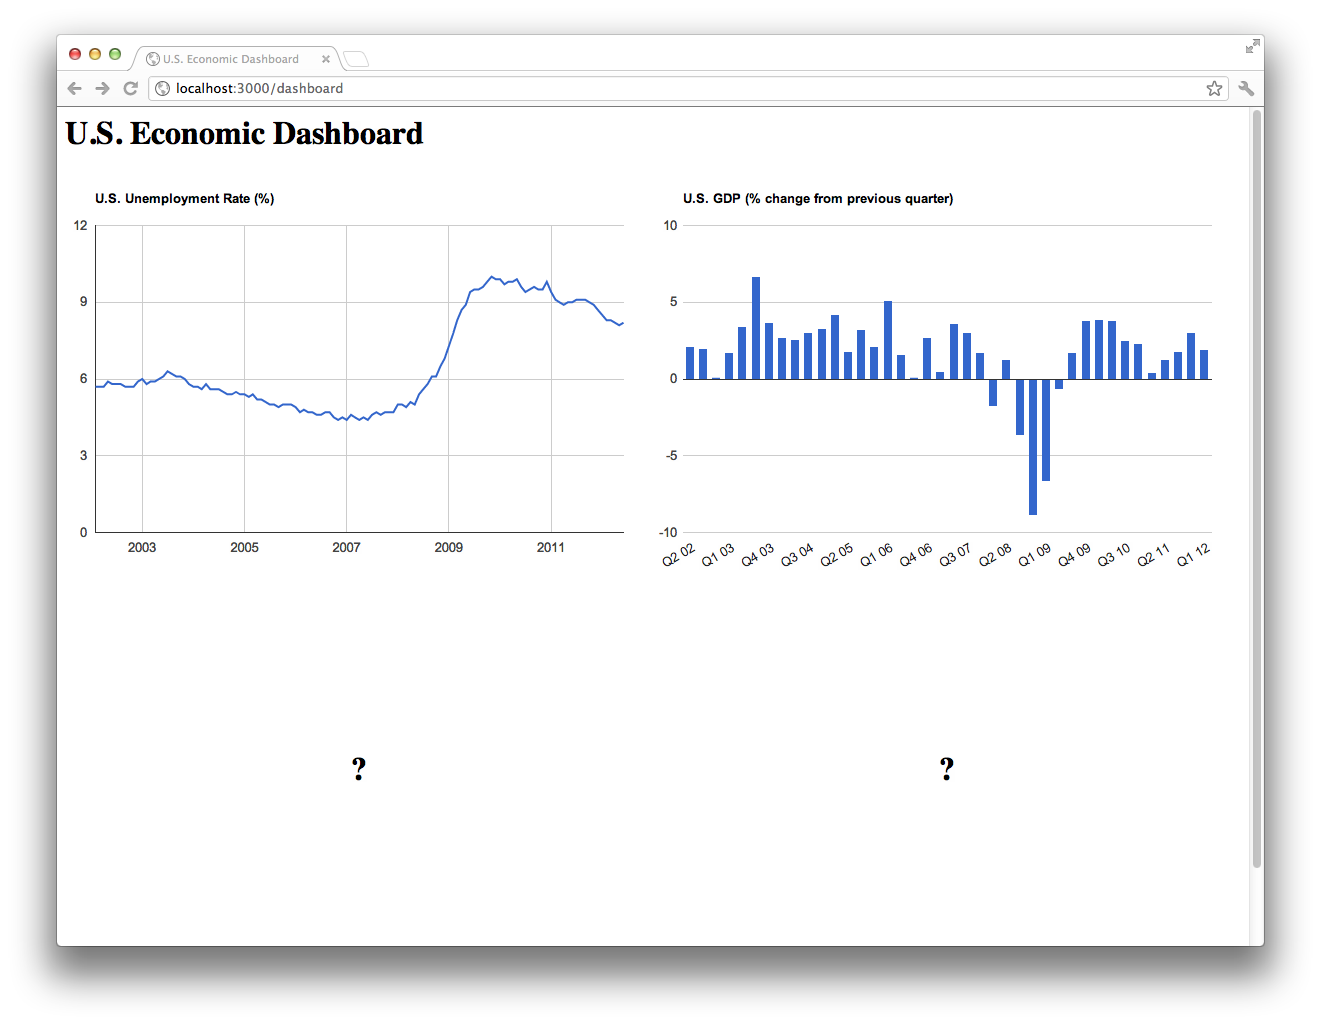
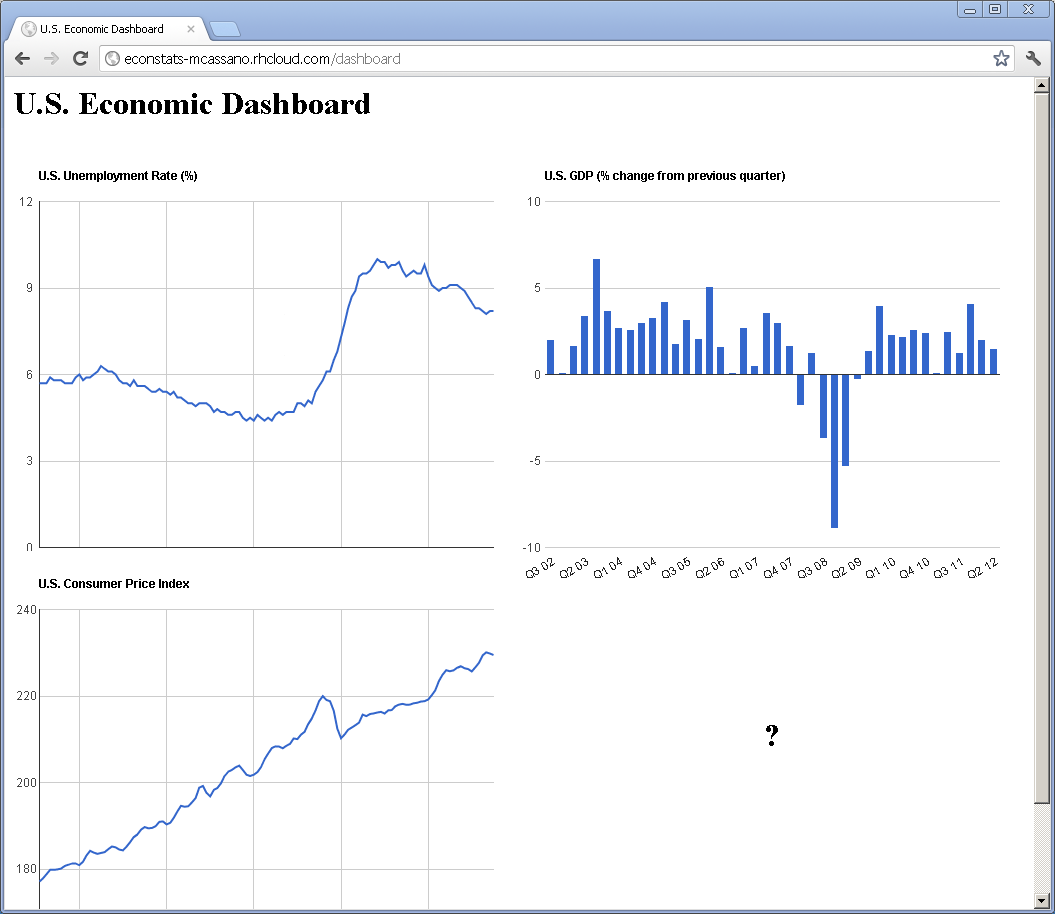
added cpi data graph to dashboard, updated screenshot

diff --git a/server.js b/server.js
@@ -37,6 +37,41 @@ var retrieveUnemployment = function(callback) {
     });
 }
 
+var retrieveConsumerPriceIndex8284 = function(callback) {
+    // Screen scrape BLS web page for latest cpi information
+    zombie.visit("http://data.bls.gov/timeseries/CUUR0000SA0", function(err,
+            browser, status) {
+        var cpiData = [];
+
+        // Grab the cpi table
+        var ths = browser.querySelectorAll("table.regular-data tbody th");
+        for ( var i = 0; i < ths.length; i++) {
+            var cpiEntry = {};
+
+            // Grab each row header and use it to set the year
+            var th = ths.item(i);
+            var year = th.innerHTML.trim();
+
+            // Grab each cell in the row and use it to set the month and
+            // cpi index
+            var tds = th.parentNode.getElementsByTagName("td");
+            for ( var j = 0; j < tds.length && j < 12; j++) {
+                var monthData = tds.item(j).innerHTML.trim();
+                if (monthData && monthData !== "&nbsp;") {
+                    cpiEntry = {
+                        month : j + 1,
+                        year : parseFloat(year),
+                        rate : parseFloat(monthData)
+                    };
+                    cpiData.push(cpiEntry);
+                }
+            }
+        }
+        console.log("Retrieved cpi data from BLS.");
+        callback(cpiData);
+    });
+}
+
 var retrieveGDP = function(callback) {
     var url = "http://www.bea.gov//national/nipaweb/GetCSV.asp?GetWhat=SS_Data/Section1All_csv.csv&Section=2";
     request(url, function(error, response, body) {
@@ -95,6 +130,13 @@ app.get("/unemployment", function(req, res) {
     });
 });
 
+// Route: GET /cpi -> CPI JSON data
+app.get("/cpi", function(req, res) {
+    retrieveConsumerPriceIndex8284(function(cpiData) {
+        res.json(cpiData);
+    });
+});
+
 // Route: GET /gdp -> GDP JSON data
 app.get("/gdp", function(req, res) {
     retrieveGDP(function(gdpData) {
@@ -106,10 +148,13 @@ app.get("/gdp", function(req, res) {
 app.get("/dashboard", function(req, res) {
     retrieveUnemployment(function(unemploymentData) {
         retrieveGDP(function(beaData) {
-            res.render("index.jade", {
-                blsData : JSON.stringify(unemploymentData),
-                beaData : JSON.stringify(beaData)
-            });    
+            retrieveConsumerPriceIndex8284(function(cpiData) {
+                res.render("index.jade", {
+                    blsData : JSON.stringify(unemploymentData),
+                    blsCpiData : JSON.stringify(cpiData),
+                    beaData : JSON.stringify(beaData)
+                });    	
+            });
         });
     });
 });

diff --git a/js/googleCharts.js b/js/googleCharts.js
@@ -33,9 +33,39 @@ function drawChart() {
         }
     };
 
+    var cpiData = new google.visualization.DataTable();
+    cpiData.addColumn('date', 'Month');
+    cpiData.addColumn('number', 'Consumer Price Index');
+
+    // Parsed blsCpiData
+    var parsedBLSCpiData = [];
+    _.each(blsCpiData, function(blsCpiDataItem) {
+        var parsedBLSCpiDataItem = [
+                new Date(blsCpiDataItem.year, blsCpiDataItem.month, 1),
+                blsCpiDataItem.rate ];
+        parsedBLSCpiData.push(parsedBLSCpiDataItem);
+    }, this);
+
+    cpiData.addRows(parsedBLSCpiData);
+
+    var cpiOptions = {
+        title : 'U.S. Consumer Price Index',
+        chartArea : {
+            width : '90%',
+            height : '75%'
+        },
+        legend : {
+            position : "none"
+        }
+    }
+
     var unempChart = new google.visualization.LineChart(document
             .getElementById('unempChart'));
     unempChart.draw(unempData, unempOptions);
+
+    var cpiChart = new google.visualization.LineChart(document
+            .getElementById('cpiChart'));
+    cpiChart.draw(cpiData, cpiOptions);
 
     var gdpData = new google.visualization.DataTable();
     gdpData.addColumn('string', 'Quarter');
